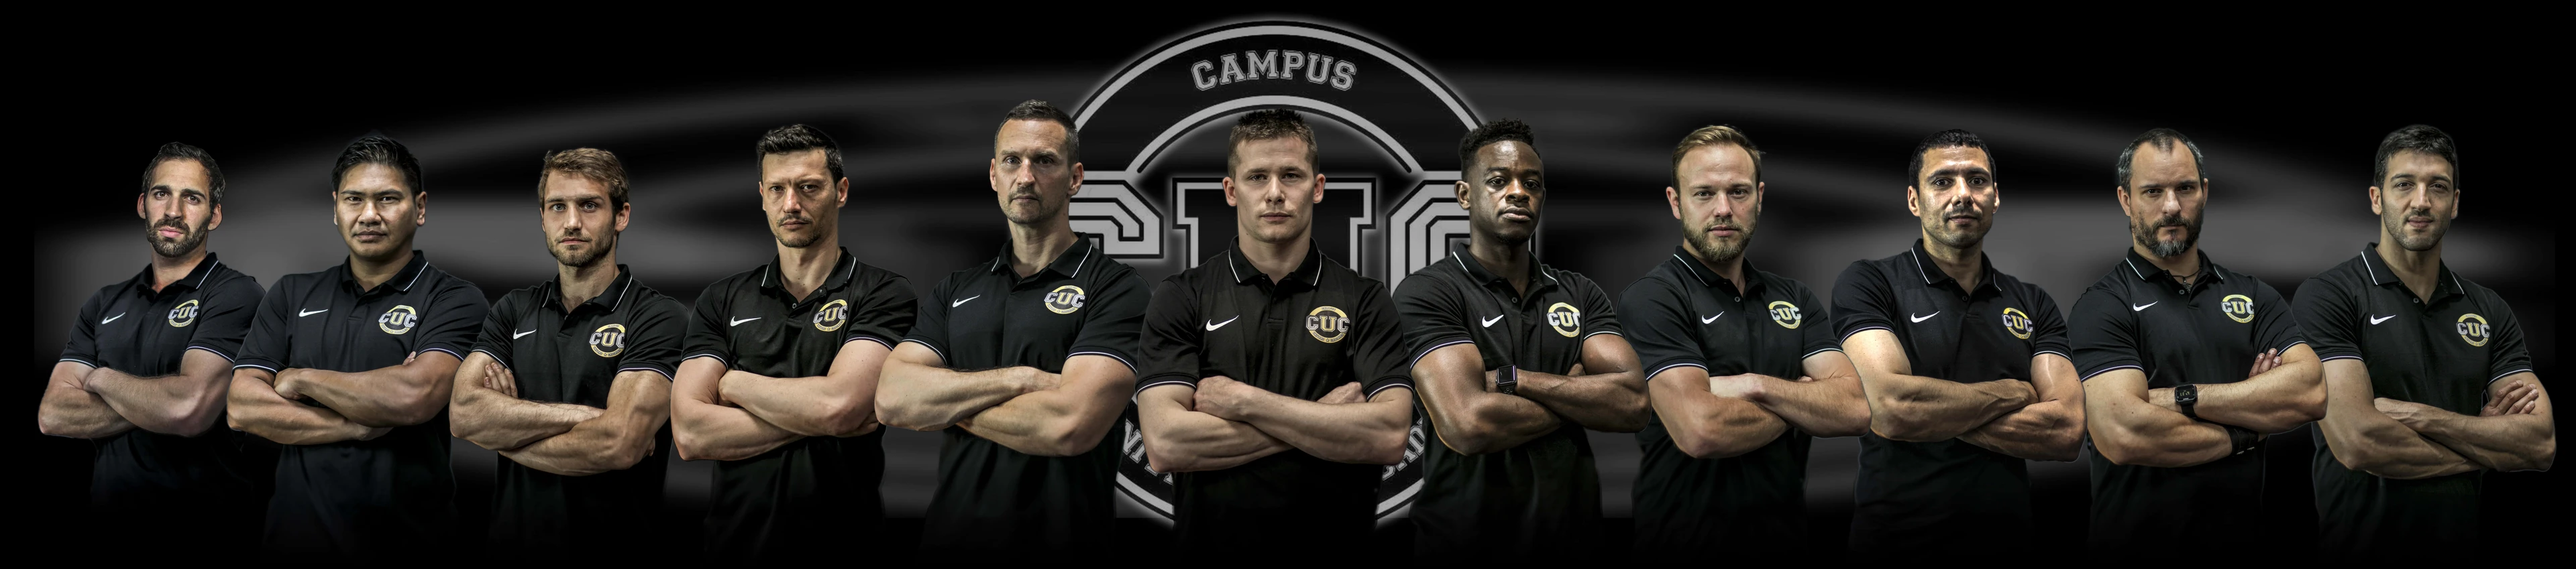
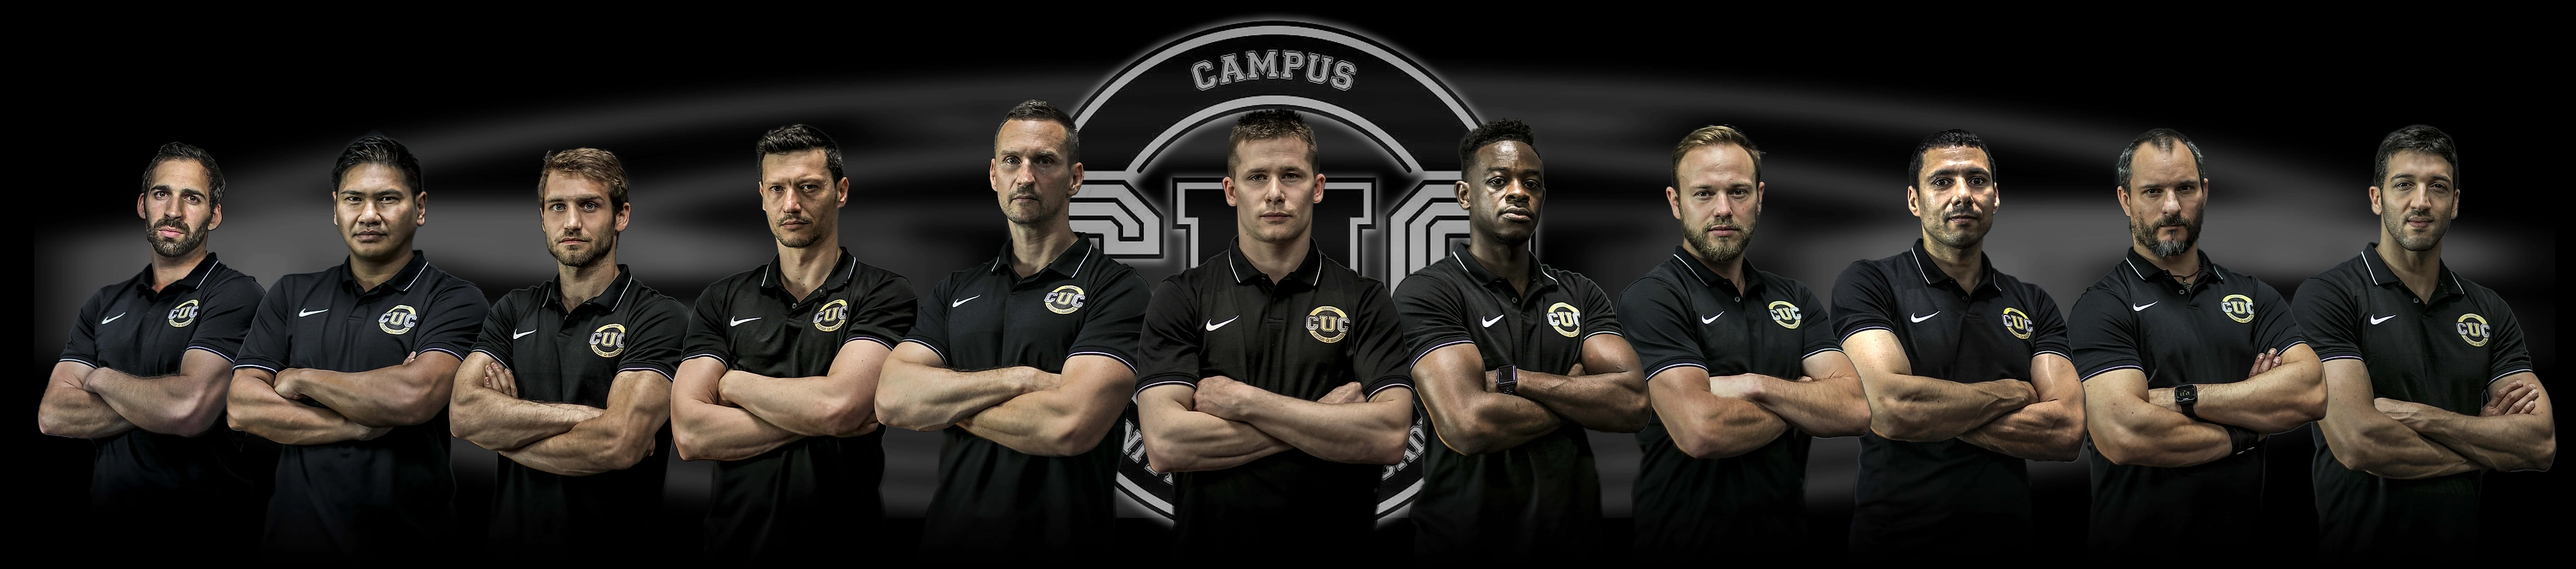
fix(media): integration du master haute definition 26k px pour les bandeaux equipe et formation

diff --git a/src/app/(site)/[locale]/equipe-cascadeurs-pro/sections/useEquipeCascadeursData.ts b/src/app/(site)/[locale]/equipe-cascadeurs-pro/sections/useEquipeCascadeursData.ts
@@ -16,7 +16,7 @@ import type { Instructor, FilmCredit } from '@/types';
 import { usePageDynamicContent } from '@/lib/hooks/usePageDynamicContent';
 
 const HERO_BG_FALLBACK =
-    'https://xkbkcsypftvspmkfnrfm.supabase.co/storage/v1/object/public/cuc-vitrine-assets/media/cuc-visual/equipe-pro-bandeau-equipe.webp';
+    '/images/equipe-pro-bandeau-hq.webp';
 
 export interface EquipeCascadeursData {
     displayTeam: Instructor[];
